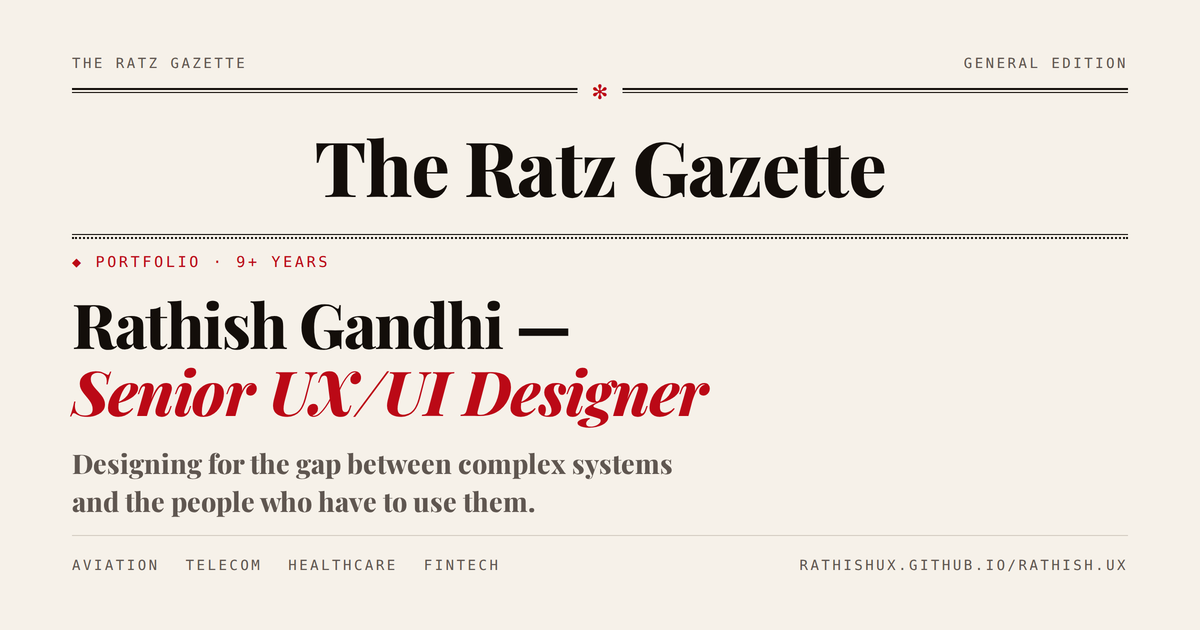
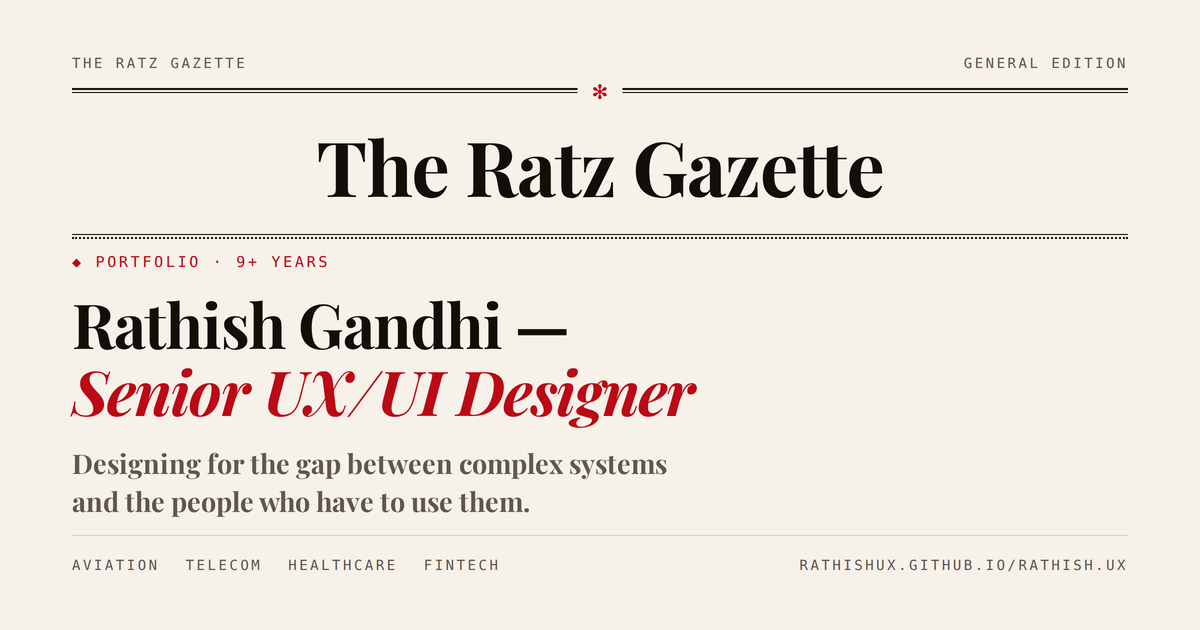
Cards are projects, never employers
Restores the SlashDR card linking to slashdr.com and drops the NFN Labs
one. The rule is now structural rather than per-entry: the work grids and
the domains list iterate entries that have a `project`, so an employer
without a named project keeps its place in the resume timeline but never
gets a card. "Read next" cycles the same set.

Also loads Playfair 400. Only 700 was being shipped, so every non-heading
serif element — the footer line, blockquotes, the email, tab labels — was
being substituted up to 700 and rendering far heavier than intended.
The share card is regenerated at 700 to match the site.

diff --git a/src/content/site-data.ts b/src/content/site-data.ts
@@ -71,16 +71,31 @@ export type ExternalProject = {
   featured?: boolean;
 };
 
-// Empty for now: SlashDR was the only entry, and it's credited under NFN Labs
-// where it was actually built. The mechanism stays because it's the only way
-// to surface a product with no employment entry behind it.
-export const externalProjects: ExternalProject[] = [];
+// SlashDR is the NFN Labs-era project, and it's the card that stands in for
+// that stretch — the employer itself never gets one.
+export const externalProjects: ExternalProject[] = [
+  {
+    id: "slashdr",
+    name: "SlashDR",
+    headline: "Unified health interface apps for India",
+    subhead: "Your one place for digital health records",
+    domain: "Healthcare",
+    url: "https://www.slashdr.com/",
+    thumbnail: "slashdr.webp",
+    featured: true,
+  },
+];
 
 // "Bangalore, Chennai, Hyderabad" reads badly directly after "Bangalore,
 // India", so drop whichever city the location already names.
 export const relocationCities = profile.openToCities.filter(
   (city) => !profile.location.includes(city),
 );
+
+// A work card stands for a project, never for an employer. Entries with no
+// named project (NFN Labs, which is represented by SlashDR instead) stay in
+// the resume timeline but never get a card.
+export const projectEntries = () => experience.filter((item) => item.project);
 
 // Falls back to the employer name for entries with no named project yet.
 export function projectDisplay(item: Experience): {

diff --git a/scripts/og-image.html b/scripts/og-image.html
@@ -17,14 +17,14 @@
       }
       @font-face {
         font-family: "Playfair Display";
-        src: url("../node_modules/@fontsource/playfair-display/files/playfair-display-latin-800-normal.woff2") format("woff2");
-        font-weight: 800;
+        src: url("../node_modules/@fontsource/playfair-display/files/playfair-display-latin-700-normal.woff2") format("woff2");
+        font-weight: 700;
         font-style: normal;
       }
       @font-face {
         font-family: "Playfair Display";
-        src: url("../node_modules/@fontsource/playfair-display/files/playfair-display-latin-800-italic.woff2") format("woff2");
-        font-weight: 800;
+        src: url("../node_modules/@fontsource/playfair-display/files/playfair-display-latin-700-italic.woff2") format("woff2");
+        font-weight: 700;
         font-style: italic;
       }
       * { margin: 0; padding: 0; box-sizing: border-box; }
@@ -74,7 +74,7 @@
       .wordmark {
         text-align: center;
         font-size: 76px;
-        font-weight: 800;
+        font-weight: 700;
         letter-spacing: -0.015em;
         padding: 6px 0 14px;
       }
@@ -95,7 +95,7 @@
       .eyebrow { font-size: 15px; color: var(--primary); }
       h1 {
         font-size: 62px;
-        font-weight: 800;
+        font-weight: 700;
         line-height: 1.08;
         letter-spacing: -0.02em;
       }

diff --git a/src/pages/work-detail-page.tsx b/src/pages/work-detail-page.tsx
@@ -7,7 +7,7 @@ import { AtAGlance } from "@/components/work/at-a-glance";
 import { SectionTabs } from "@/components/work/section-tabs";
 import { Badge } from "@/components/ui/badge";
 import { cn } from "@/lib/utils";
-import { articles, experience, projectDisplay } from "@/content/site-data";
+import { articles, experience, projectDisplay, projectEntries } from "@/content/site-data";
 import { caseStudyContent } from "@/content/case-study-content";
 import { caseStudyImageFolder, caseStudySections } from "@/content/case-study-nav";
 import { extractHeadings, parseCaseStudy, sliceSection } from "@/lib/case-study";
@@ -58,8 +58,11 @@ export function WorkDetailPage() {
     return <Navigate to="/work" replace />;
   }
 
-  const idx = experience.findIndex((e) => e.id === id);
-  const next = experience[(idx + 1) % experience.length];
+  // Cycle only through items that have a card, so "Read next" never lands on
+  // an employer-only entry.
+  const cards = projectEntries();
+  const idx = Math.max(cards.findIndex((e) => e.id === id), 0);
+  const next = cards[(idx + 1) % cards.length];
   const display = projectDisplay(item);
   const relatedArticles = articles.filter((a) => a.relatedWorkIds?.includes(item.id));
   // A split-out item (sectionNumbers set) always uses its own project

diff --git a/src/pages/work-page.tsx b/src/pages/work-page.tsx
@@ -1,5 +1,5 @@
 import { WorkCard } from "@/components/work/work-card";
-import { experience, externalProjects, projectDisplay } from "@/content/site-data";
+import { externalProjects, projectDisplay, projectEntries } from "@/content/site-data";
 
 export function WorkPage() {
   return (
@@ -13,7 +13,7 @@ export function WorkPage() {
       </p>
 
       <div className="mt-10 grid gap-6 sm:grid-cols-2">
-        {experience.map((item, index) => {
+        {projectEntries().map((item, index) => {
           const display = projectDisplay(item);
           return (
             <WorkCard
@@ -35,7 +35,7 @@ export function WorkPage() {
         {externalProjects.map((item, index) => (
           <WorkCard
             key={item.id}
-            index={experience.length + index}
+            index={projectEntries().length + index}
             thumbnail={item.thumbnail}
             eyebrow={item.name}
             headline={item.headline}

diff --git a/src/components/home/featured-work.tsx b/src/components/home/featured-work.tsx
@@ -1,10 +1,10 @@
 import { Link } from "react-router-dom";
 import { ArrowUpRight } from "lucide-react";
 import { WorkCard } from "@/components/work/work-card";
-import { experience, externalProjects, projectDisplay } from "@/content/site-data";
+import { externalProjects, projectDisplay, projectEntries } from "@/content/site-data";
 
 export function FeaturedWork() {
-  const featured = experience.filter((item) => item.featured);
+  const featured = projectEntries().filter((item) => item.featured);
   const featuredExternal = externalProjects.filter((item) => item.featured);
 
   return (

diff --git a/src/components/layout/footer.tsx b/src/components/layout/footer.tsx
@@ -4,7 +4,7 @@ export function Footer() {
   return (
     <footer className="border-t border-border bg-secondary/40">
       <div className="mx-auto flex max-w-[1800px] flex-col gap-2 px-6 py-8 text-sm text-muted-foreground sm:flex-row sm:items-center sm:justify-between sm:px-8 lg:px-12">
-        <p className="font-serif italic">
+        <p className="font-serif font-normal italic">
           {profile.name} — next edition already in the works.
         </p>
         <p className="font-mono text-[11px] text-shell uppercase">

diff --git a/src/main.tsx b/src/main.tsx
@@ -3,6 +3,8 @@ import { createRoot } from "react-dom/client";
 import App from "./App.tsx";
 // Self-hosted display serif — only the weights actually used, so the payload
 // stays small and there's no third-party font request.
+import "@fontsource/playfair-display/latin-400.css";
+import "@fontsource/playfair-display/latin-400-italic.css";
 import "@fontsource/playfair-display/latin-700.css";
 import "@fontsource/playfair-display/latin-700-italic.css";
 import "./index.css";

diff --git a/src/components/home/domains.tsx b/src/components/home/domains.tsx
@@ -1,6 +1,6 @@
 import {
   domainStats,
-  experience,
+  projectEntries,
   extraDomainProjects,
   projectDisplay,
   type Experience,
@@ -38,7 +38,7 @@ function groupByDomain(items: Experience[]): DomainGroup[] {
 }
 
 export function Domains() {
-  const groups = groupByDomain(experience);
+  const groups = groupByDomain(projectEntries());
 
   return (
     <section className="mx-auto max-w-[1800px] px-6 py-16 sm:px-8 lg:px-12">
